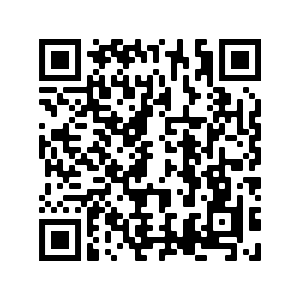
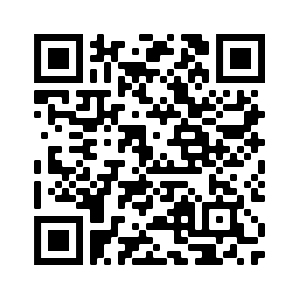
update to day 1 lecture

Changed region(s): [[0.09, 0.09, 0.9, 0.9]]

diff --git a/day1review-speaker.html b/day1review-speaker.html
@@ -329,7 +329,8 @@
 <section id="join-this-presentation" class="slide level2">
 <h2>Join this presentation</h2>
 <center>
-<img src="qr.png"> https://www.precalcandtrig.net/lectures22/day1review.html
+<p><img src="qr.png"></p>
+https://kmcliff.github.io/day1review.html
 </center>
 </section>
 <section id="to-access-course-content" class="slide level2">

diff --git a/day1review.html b/day1review.html
@@ -329,7 +329,8 @@
 <section id="join-this-presentation" class="slide level2">
 <h2>Join this presentation</h2>
 <center>
-<img src="qr.png"> https://www.precalcandtrig.net/lectures22/day1review.html
+<p><img src="qr.png"></p>
+https://kmcliff.github.io/day1review.html
 </center>
 </section>
 <section id="to-access-course-content" class="slide level2">
